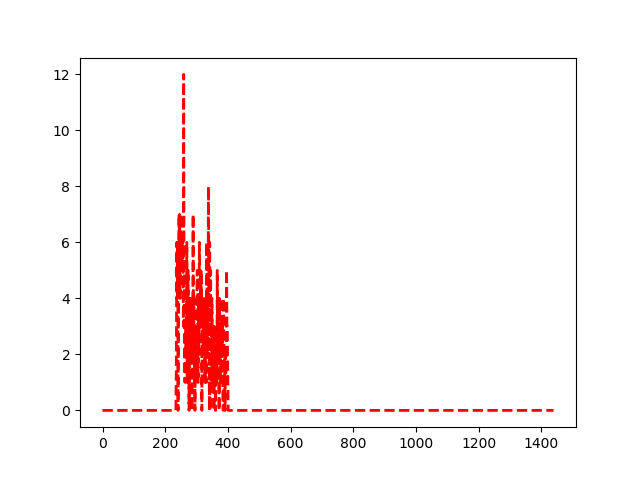
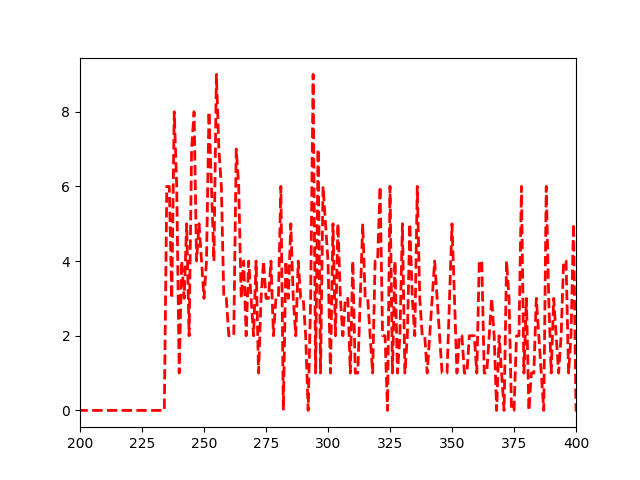
1.增加了generator 2.构建了一个第一版本的简单的模型 3.看看周末能不能把数据灌进去试试看呢，下一步把generator的代买落地实现了，后面就可以解析了！ 4.第一步关键是用测试数据，让现在的模型跑起来哦！！！ 5,2019-09-01处理好生成器，以及生成器的训练参数

diff --git a/data_deal.py b/data_deal.py
@@ -8,12 +8,16 @@
 
 import numpy as np
 import matplotlib.pyplot as plt
+import pandas as pd
 ########################！！！！先不考虑变化参数的问题###############################
 
 ######1.历史数据解析以及对过去的数据进行统计################################
-######1.统计得到每一天每分钟的航班人数
+
+
+
+######1.统计得到每一天每分钟的航班人数，历史数据
 def get_minute_one_count():
-    ##实现一个参数，也就是5分钟、10分钟、15分钟、30分钟 多种组合规则的提取程序
+    ##得到某一天的1440的每分钟的人数
     #3输出字段：一个是时间、一个是人数、一个是日期
     pass
 
@@ -23,11 +27,47 @@ def get_inputs_past_w_day_data():
     ##配置：单个序列的长度、以及每个吸引力的长度
     pass
 
+def get_aggravte_minute():
+    ##得到每分钟的聚合人数
+    pass
 
+
+def get_hb_schedule():
+    ##处理数据得到所有的航班计划
+    pass
+
+
+
+data=pd.read_csv("./data_ori/flight_filted6.csv")
+hb_schedule=data.drop_duplicates(subset=["SCHETIME"])
+hb_schedule_all=hb_schedule[["SCHETIME"]]
+hb_schedule_all.to_csv("./data_ori/hb_all_table.csv")
+##6月份有407个航班 里面可能有重复的时间 200个时间有航班，只计算航班时间对应人数就行了，简化计算一下
+#对每一天生成一个list 长度为407的 代表这407个航班是否存在的序列
+
+hb_time_all=sorted(list(hb_schedule_all["SCHETIME"]))
+##将所有数据汇总得到407个航班时间和航班人数，对应不同的航空公司
+##这里面需要一个判断逻辑
+def get_every_day_inout_schedule():
+    #对每一天的数据进行处理，得到6月份每一天的航班计划输入格式
+    #200*1
+    pass
+
+
+hb_data_one_Day=data[data["SCHETIME_date"]==13]
+sums=hb_data_one_Day["CHECKINTIME"].groupby([hb_data_one_Day["SCHETIME"]]).count()
+index_time=hb_data_one_Day.drop_duplicates("SCHETIME")["SCHETIME"].sort_values()
+index_people=list(sums)
+resut_hb_people=[0 for i in hb_time_all]
+
+
+print(sums)
 ##############2.航班规律到达函数##########################
 #单航班到达规律生成器
 def possion_generator(hb_time,hb_people):
-
+    ###可能存在需要训练的参数
+    ###1） 时间比例和人数比例 一共165分钟，w1+w2+w3=1  w2变化  w1+w3=1-w2    *165
+    ###2) 人数比例                         w1+w2+w3=1  w2变化   w1=w3=（1-w2）/2  *hb_people
     time_people=[0 for i in range(1440)]
     ##分成三段叠加
     #时间上分段45-210分钟，1==》45-70  2===》 70-150  3===》150-210  三段之间的比例计算为
@@ -35,61 +75,69 @@ def possion_generator(hb_time,hb_people):
     ##先生成到达时间，从第一段低密度开始，最远的地方，距离航班起飞最远到最近45分钟，截至人数全部到达
     # 初始化三个时间区间长度
     ##整体的时间长度，后面通过泊松分布算出来的时间分布可能高于这个值呢
-    ##从第45分钟开始
-    time_interval_low1=25
-    time_interval_high2=80
-    time_interval_low3=60
-    ###上面三个为时间的跨度
-    time_scale_last=[0,0,0]   #记录最后一个值为多少
-    times_scale_chen=[0,0,0]
-    time_arrival_all=[]       #记录每个人的到达时间间隔时间，一共有多少个人人就有多少个数据，最后再把这些数据映射到1440上面去！
-    #高密度和低密度的比例
-    low_percent=0.25
-    high_percent=0.5
-    low_people_1=int(low_percent*hb_people)
-    high_peole_2 = int(high_percent * hb_people)
-    low_people_3=low_people_1
+    if hb_people>0:
+        ##从第45分钟开始
+        time_interval_low1=25
+        time_interval_high2=80
+        time_interval_low3=60
+        ###上面三个为时间的跨度
+        time_scale_last=[0,0,0]   #记录最后一个值为多少
+        times_scale_chen=[0,0,0]
+        time_arrival_all=[]       #记录每个人的到达时间间隔时间，一共有多少个人人就有多少个数据，最后再把这些数据映射到1440上面去！
+        #高密度和低密度的比例
+        low_percent=0.25
+        high_percent=0.5
+        low_people_1=int(low_percent*hb_people)
+        high_peole_2 = int(high_percent * hb_people)
+        low_people_3=low_people_1
 
-    ##计算每个人的到达时间  距离起飞还有45分钟-80分钟的人数的到达时间
-    temp_arrival_time1=hb_time-210+45 #每一段的开始时间 （第一段）
-    temp_arrival_time2=temp_arrival_time1+time_interval_low1  #（第二段 高密度，开始时间）
-    temp_arrival_time3=temp_arrival_time2+time_interval_high2  #（第三段， 低密度，开始时间)
-    result=[]
+        ##计算每个人的到达时间  距离起飞还有45分钟-80分钟的人数的到达时间
+        temp_arrival_time1=hb_time-210+45 #每一段的开始时间 （第一段）
+        temp_arrival_time2=temp_arrival_time1+time_interval_low1  #（第二段 高密度，开始时间）
+        temp_arrival_time3=temp_arrival_time2+time_interval_high2  #（第三段， 低密度，开始时间)
+        result=[]
 
-    for i in range(low_people_1):
-        next_times_Arrival=np.random.exponential(1)
-        time_arrival_all.append(next_times_Arrival)
-        time_scale_last[0]+=next_times_Arrival
-    for i in range(high_peole_2):
-        next_times_Arrival = np.random.exponential(1)
-        time_arrival_all.append(next_times_Arrival)
-        time_scale_last[1] += next_times_Arrival
-    for i in range(low_people_3):
-        next_times_Arrival = np.random.exponential(1)
-        time_arrival_all.append(next_times_Arrival)
-        time_scale_last[2] += next_times_Arrival
-    ##将得到的规模进行转换
-    times_scale_chen[0]=float(time_interval_low1/time_scale_last[0])
-    times_scale_chen[1] = float(time_interval_high2 / time_scale_last[1])
-    times_scale_chen[2] = float(time_interval_low3 / time_scale_last[2])
-    for j in range(3):
-        print(times_scale_chen[j])
+        for i in range(low_people_1):
+            next_times_Arrival=np.random.exponential(1)
+            time_arrival_all.append(next_times_Arrival)
+            time_scale_last[0]+=next_times_Arrival
+        for i in range(high_peole_2):
+            next_times_Arrival = np.random.exponential(1)
+            time_arrival_all.append(next_times_Arrival)
+            time_scale_last[1] += next_times_Arrival
+        for i in range(low_people_3):
+            next_times_Arrival = np.random.exponential(1)
+            time_arrival_all.append(next_times_Arrival)
+            time_scale_last[2] += next_times_Arrival
+        ##将得到的规模进行转换
+        times_scale_chen[0]=float(time_interval_low1/time_scale_last[0])
+        times_scale_chen[1] = float(time_interval_high2 / time_scale_last[1])
+        times_scale_chen[2] = float(time_interval_low3 / time_scale_last[2])
+        for j in range(3):
+            print(times_scale_chen[j])
 
-    for i in range(low_people_1):
-        temp_arrival_time1+=time_arrival_all[i]*times_scale_chen[0]
-        result.append(temp_arrival_time1)
-    for i in range(low_people_1,high_peole_2+low_people_1):
-        temp_arrival_time2+=time_arrival_all[i]*times_scale_chen[1]
-        result.append(temp_arrival_time2)
-    for i in range(high_peole_2+low_people_1,hb_people):
-        temp_arrival_time3+=time_arrival_all[i]*times_scale_chen[2]
-        result.append(temp_arrival_time3)
-    ##现在的result就是每个人的到达时间，下一步就是进行排序和统计每分钟的人数：
-    for k in result:
-        time_people[int(k)]+=1
-    return time_people
-###多航班叠加
+        for i in range(low_people_1):
+            temp_arrival_time1+=time_arrival_all[i]*times_scale_chen[0]
+            result.append(temp_arrival_time1)
+        for i in range(low_people_1,high_peole_2+low_people_1):
+            temp_arrival_time2+=time_arrival_all[i]*times_scale_chen[1]
+            result.append(temp_arrival_time2)
+        for i in range(high_peole_2+low_people_1,hb_people):
+            temp_arrival_time3+=time_arrival_all[i]*times_scale_chen[2]
+            result.append(temp_arrival_time3)
+        ##现在的result就是每个人的到达时间，下一步就是进行排序和统计每分钟的人数：
+        for k in result:
+            time_people[int(k)]+=1
+        return time_people
+    else:
+        return time_people
+###多航班叠加 统计每一天的所有航班的总人数
 def multi_flight(hb_time_list,hb_people_list):
+    """
+    :param hb_time_list: 某一天的所有航班的航班时间
+    :param hb_people_list: 某一天的所有的航班的人数
+    :return:某一天的航班计划得到的航班人数  1440*1 维度为list
+    """
     result2=[0 for i in range(1440)]
     for i in range(len(hb_time_list)):
         temp=possion_generator(hb_time_list[i],hb_people_list[i])
@@ -103,7 +151,7 @@ def plot(data,name):
     y = range(1440)
     plt.plot(y, data, ls='dashed',
              lw=2, c='r', label='Poisson distribution\n$(\lambda=%s)$'%name)
-    #plt.xlim(200,400)
+    plt.xlim(200,400)
     plt.savefig("test.png")
     plt.show()
 

diff --git a/test_study/测试代码编辑.py b/test_study/测试代码编辑.py
@@ -1,0 +1,7 @@
+#-*-coding:utf8-*-
+#user:brian
+#created_at:2019/9/2 16:13
+# file: 测试代码编辑.py
+#location: china chengdu 610000
+for i in range(0):
+    print(i)
